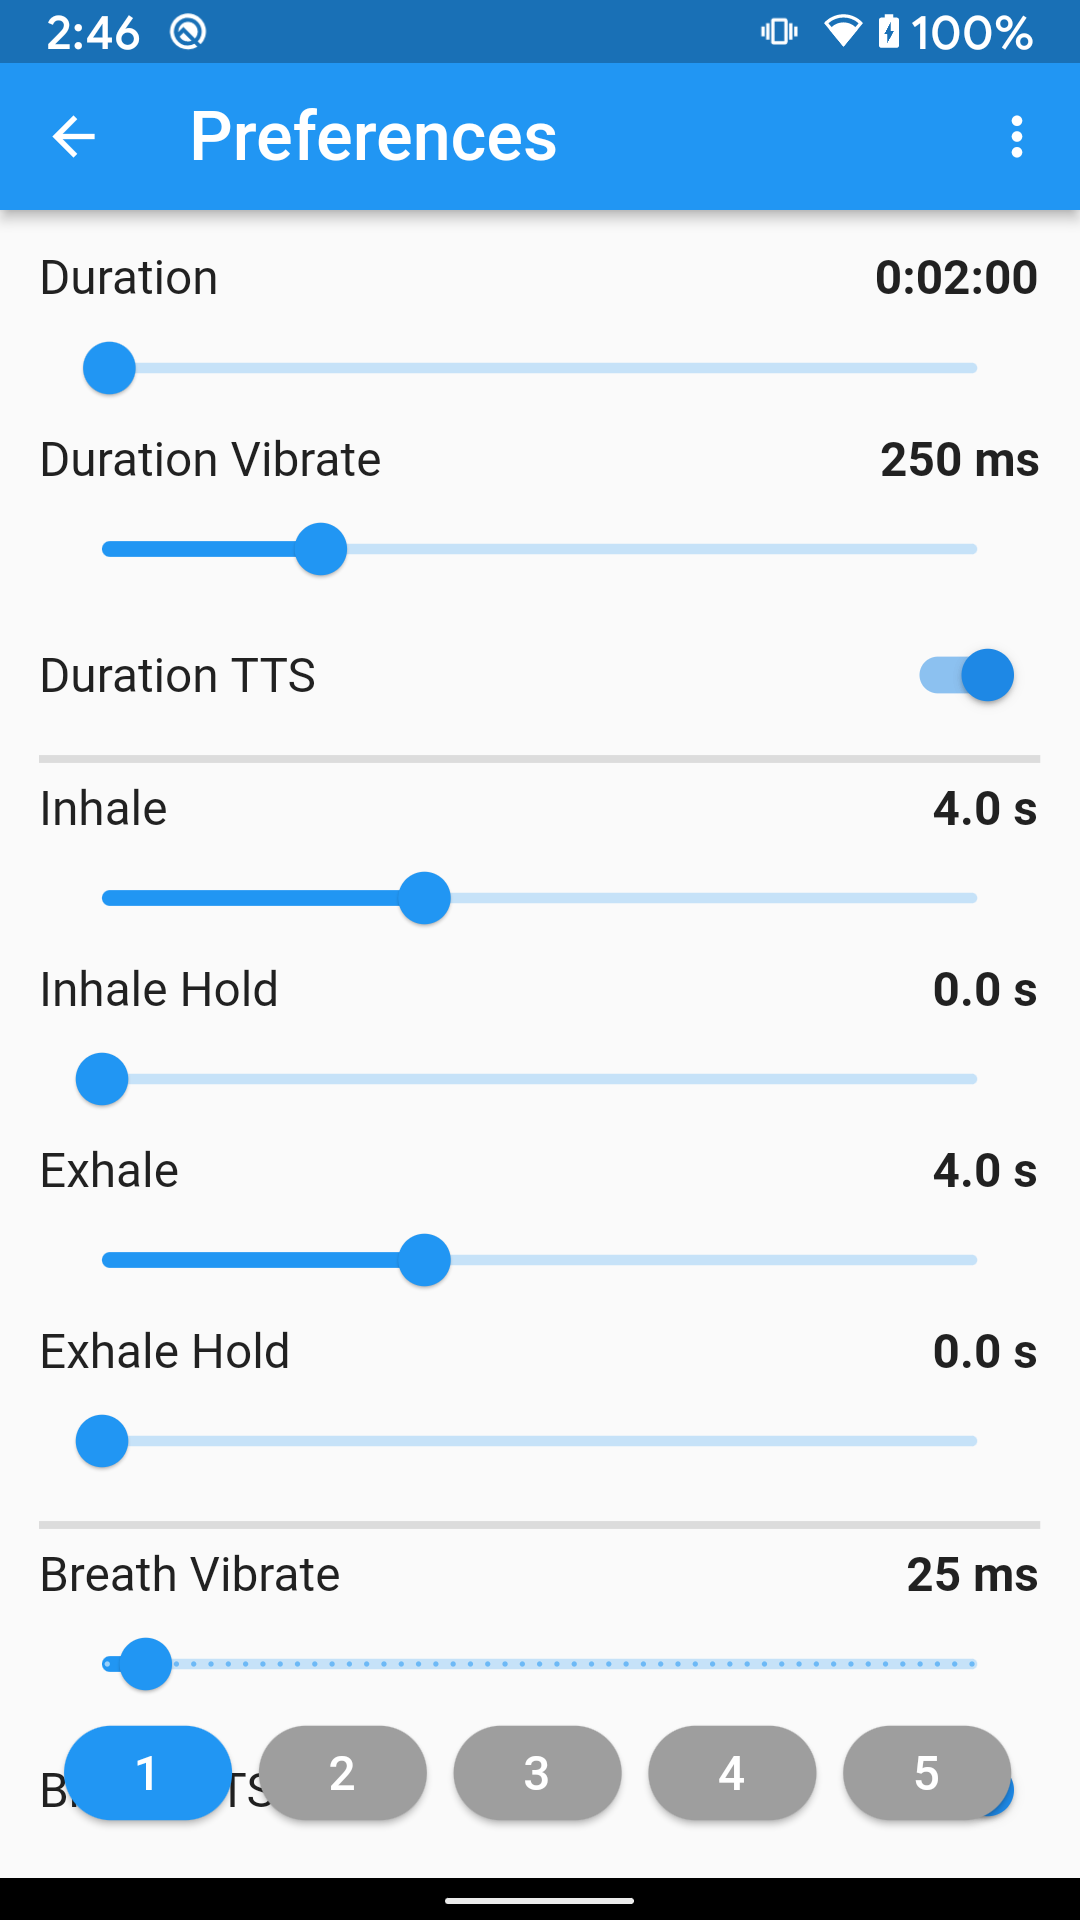
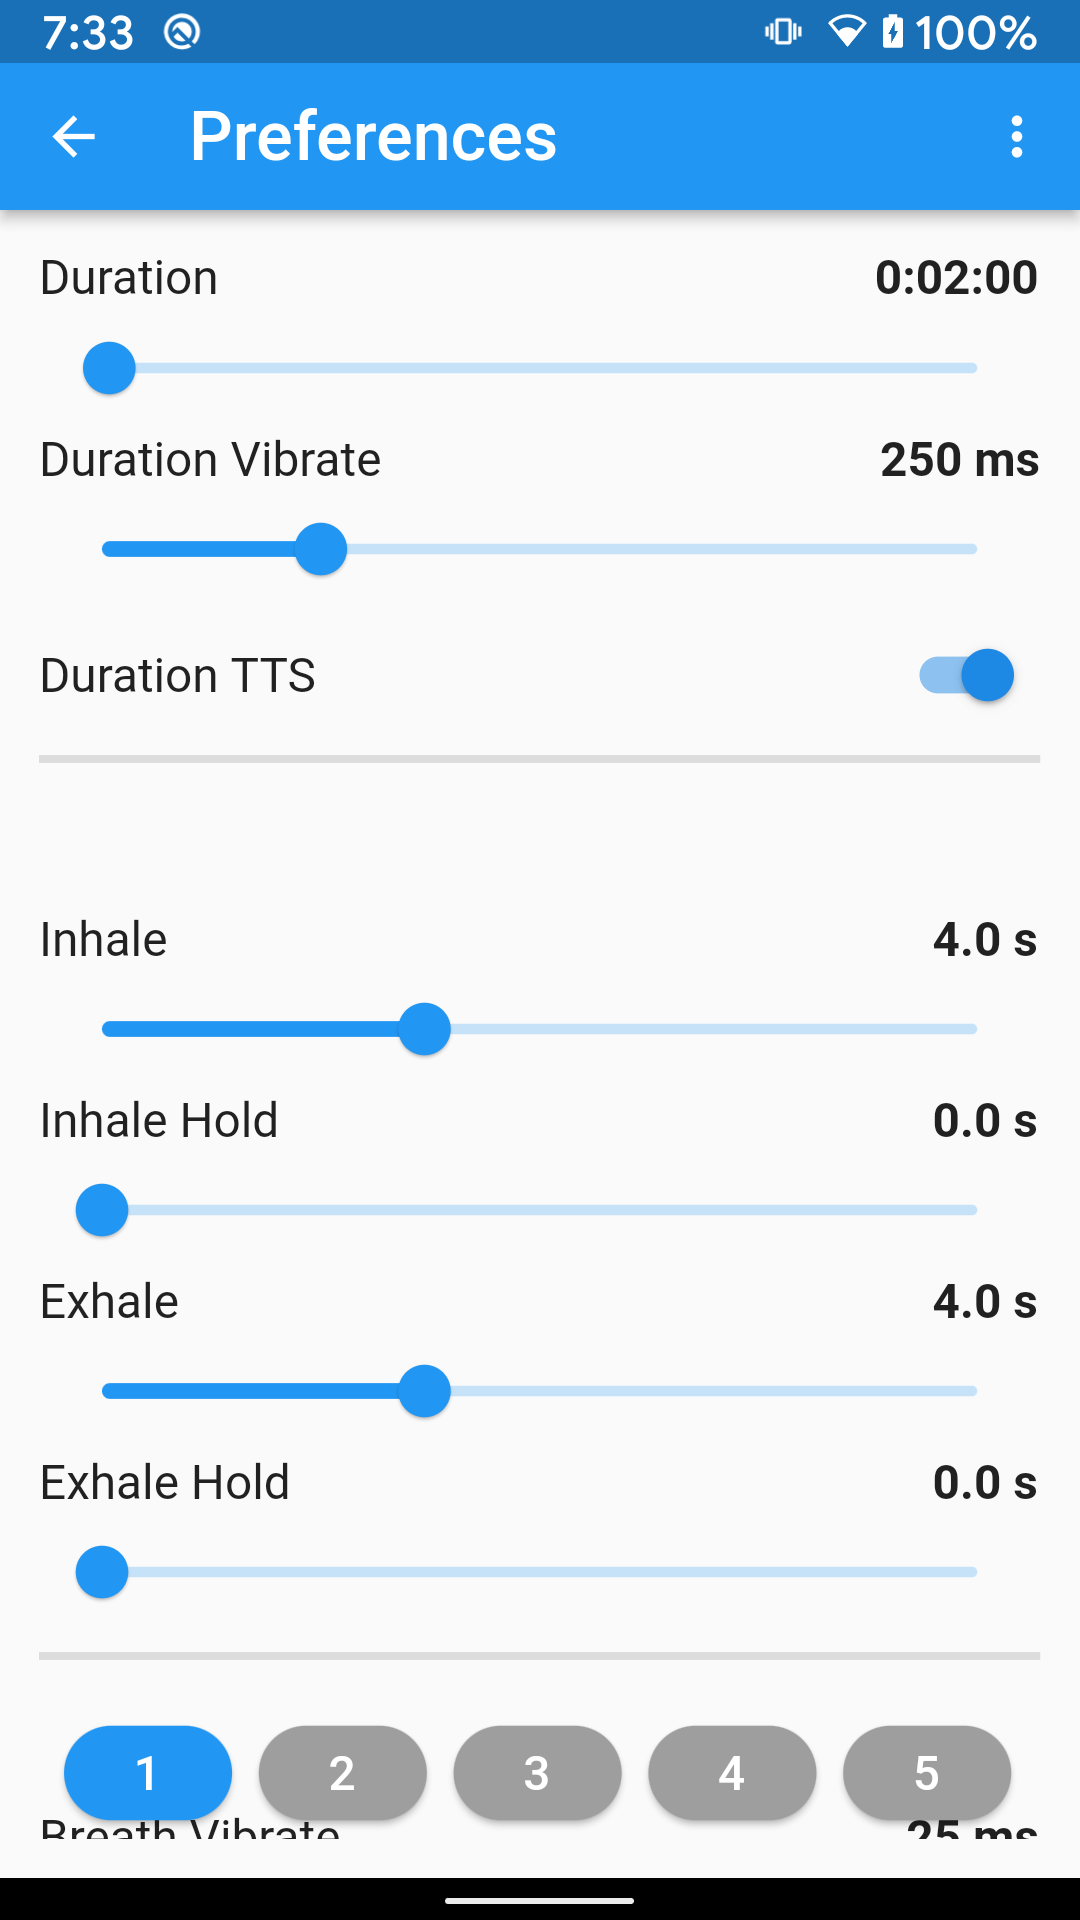
Update for #12

diff --git a/lib/preferences_widget.dart b/lib/preferences_widget.dart
@@ -462,6 +462,7 @@ class _PreferencesWidgetState extends State<PreferencesWidget> {
               Divider(
                 thickness: 3,
               ),
+              SizedBox(height: 50),
 
               // Inhale
               Row(
@@ -664,6 +665,7 @@ class _PreferencesWidgetState extends State<PreferencesWidget> {
               Divider(
                 thickness: 3,
               ),
+              SizedBox(height: 50),
 
               // Breath vibrate
               Row(
@@ -732,7 +734,6 @@ class _PreferencesWidgetState extends State<PreferencesWidget> {
               Divider(
                 thickness: 3,
               ),
-
               SizedBox(height: 50),
             ],
           ),
